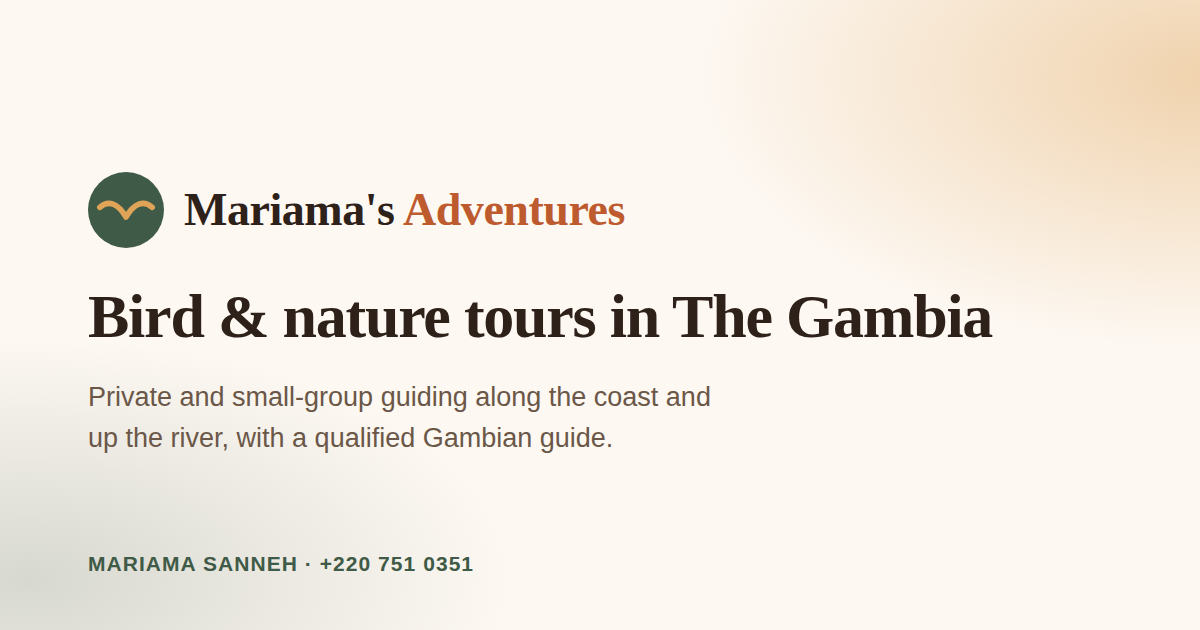
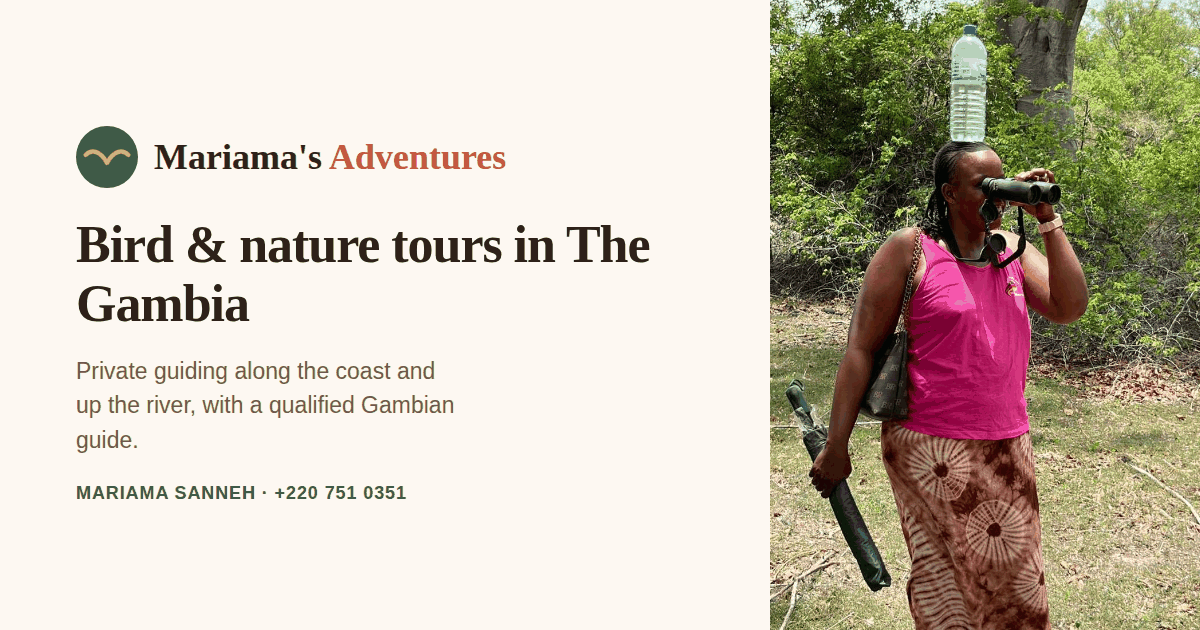
Add files via upload

diff --git a/index.html b/index.html
@@ -166,6 +166,21 @@
   .ph-alt{background:linear-gradient(150deg,#9DB58C,#5C7A5E 50%,#C08A52)}
   .ph-card{aspect-ratio:3/2;border-radius:16px;box-shadow:none;font-size:.66rem}
 
+
+  /* ---------- photos ---------- */
+  .photo{
+    display:block;width:100%;border-radius:var(--radius);
+    object-fit:cover;box-shadow:var(--shadow);background:var(--sand);
+  }
+  .photo-hero{aspect-ratio:4/5}
+  .photo-square{aspect-ratio:1/1}
+  figure.shot{margin:0}
+  figure.shot figcaption{
+    margin-top:.7em;font-size:.83rem;color:var(--muted);line-height:1.5;
+  }
+  .train-intro{display:grid;gap:clamp(24px,4vw,40px);align-items:center}
+  @media(min-width:820px){.train-intro{grid-template-columns:1.25fr .75fr}}
+
   /* ---------- credentials strip ---------- */
   .creds{background:var(--sand);padding-block:clamp(34px,5vw,46px)}
   .creds-inner{display:grid;gap:20px}
@@ -336,7 +351,8 @@
       </div>
       <p class="hero-note">Usually replies within a few hours · Coastal day trips and up-river expeditions</p>
     </div>
-    <div class="ph ph-hero"><span>Photo — Mariama with binoculars, outdoors</span></div>
+    <img class="photo photo-hero" src="mariama-birding.jpg" width="880" height="1100"
+         alt="Mariama Sanneh watching birds through binoculars under a baobab in The Gambia">
   </div>
 </section>
 
@@ -353,7 +369,11 @@
 <!-- ============ STORY ============ -->
 <section id="story">
   <div class="wrap story-grid">
-    <div class="ph ph-alt" style="aspect-ratio:1/1"><span>Photo — in the field, or the river at dawn</span></div>
+    <figure class="shot">
+      <img class="photo photo-square" src="mariama-wassu.jpg" width="820" height="820"
+           alt="Mariama Sanneh with a guest at the Wassu stone circles, a UNESCO World Heritage site in The Gambia">
+      <figcaption>With a guest at the Wassu stone circles, up-river.</figcaption>
+    </figure>
     <div>
       <p class="eyebrow">About me</p>
       <h2>It started with volunteering, not with tourism.</h2>
@@ -386,12 +406,21 @@
 <!-- ============ CERTIFICATES ============ -->
 <section class="certs" id="training">
   <div class="wrap">
-    <p class="eyebrow">Training</p>
-    <h2>Where I learned it.</h2>
-    <p style="color:var(--muted);max-width:38em;margin:0">
-      Guiding in The Gambia is not a licensed profession for most people who do it.
-      I took the longer route, and I am happy to show the paperwork.
-    </p>
+    <div class="train-intro">
+      <div>
+        <p class="eyebrow">Training</p>
+        <h2>Where I learned it.</h2>
+        <p style="color:var(--muted);max-width:34em;margin:0">
+          Guiding in The Gambia is not a licensed profession for most people who do it.
+          I took the longer route, and I am happy to show the paperwork.
+        </p>
+      </div>
+      <figure class="shot">
+        <img class="photo photo-square" src="mariama-birdday.jpg" width="760" height="760"
+             alt="Mariama Sanneh at World Migratory Bird Day with a fellow surveyor">
+        <figcaption>World Migratory Bird Day.</figcaption>
+      </figure>
+    </div>
 
     <div class="cert-grid">
       <figure class="cert" style="margin:0">

diff --git a/404.html b/404.html
@@ -24,7 +24,7 @@
     <path d="M6.2 18.6C10.6 14.6 15.8 16.4 20 23.8C24.2 16.4 29.4 14.6 33.8 18.6" fill="none" stroke="#E0A458" stroke-width="2.9" stroke-linecap="round" stroke-linejoin="round"/></svg>
   <h1>That page flew away.</h1>
   <p>The page you were looking for isn't here — but the birds still are.</p>
-  <a href="/">Back to the start</a>
+  <a href="./">Back to the start</a>
 </div>
 </body>
 </html>
